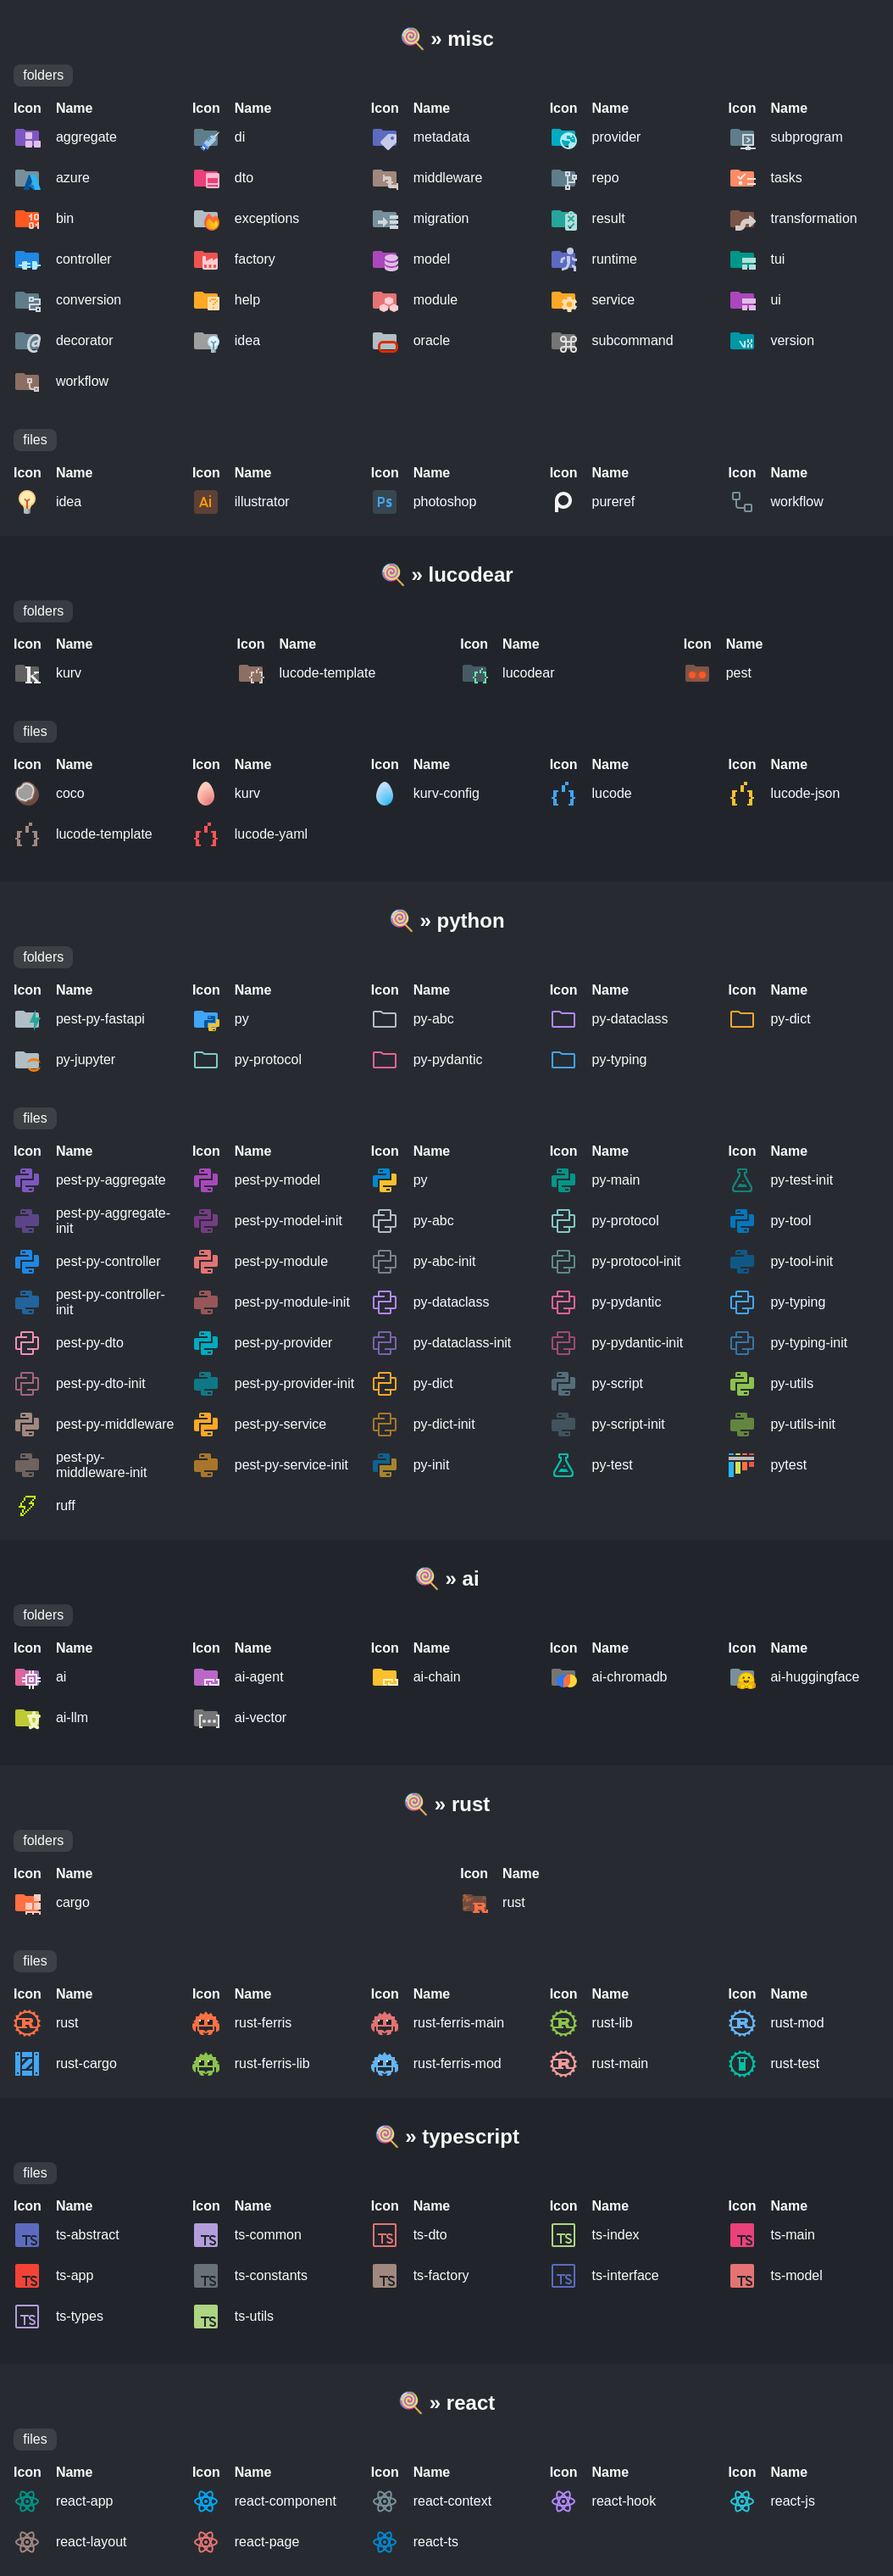
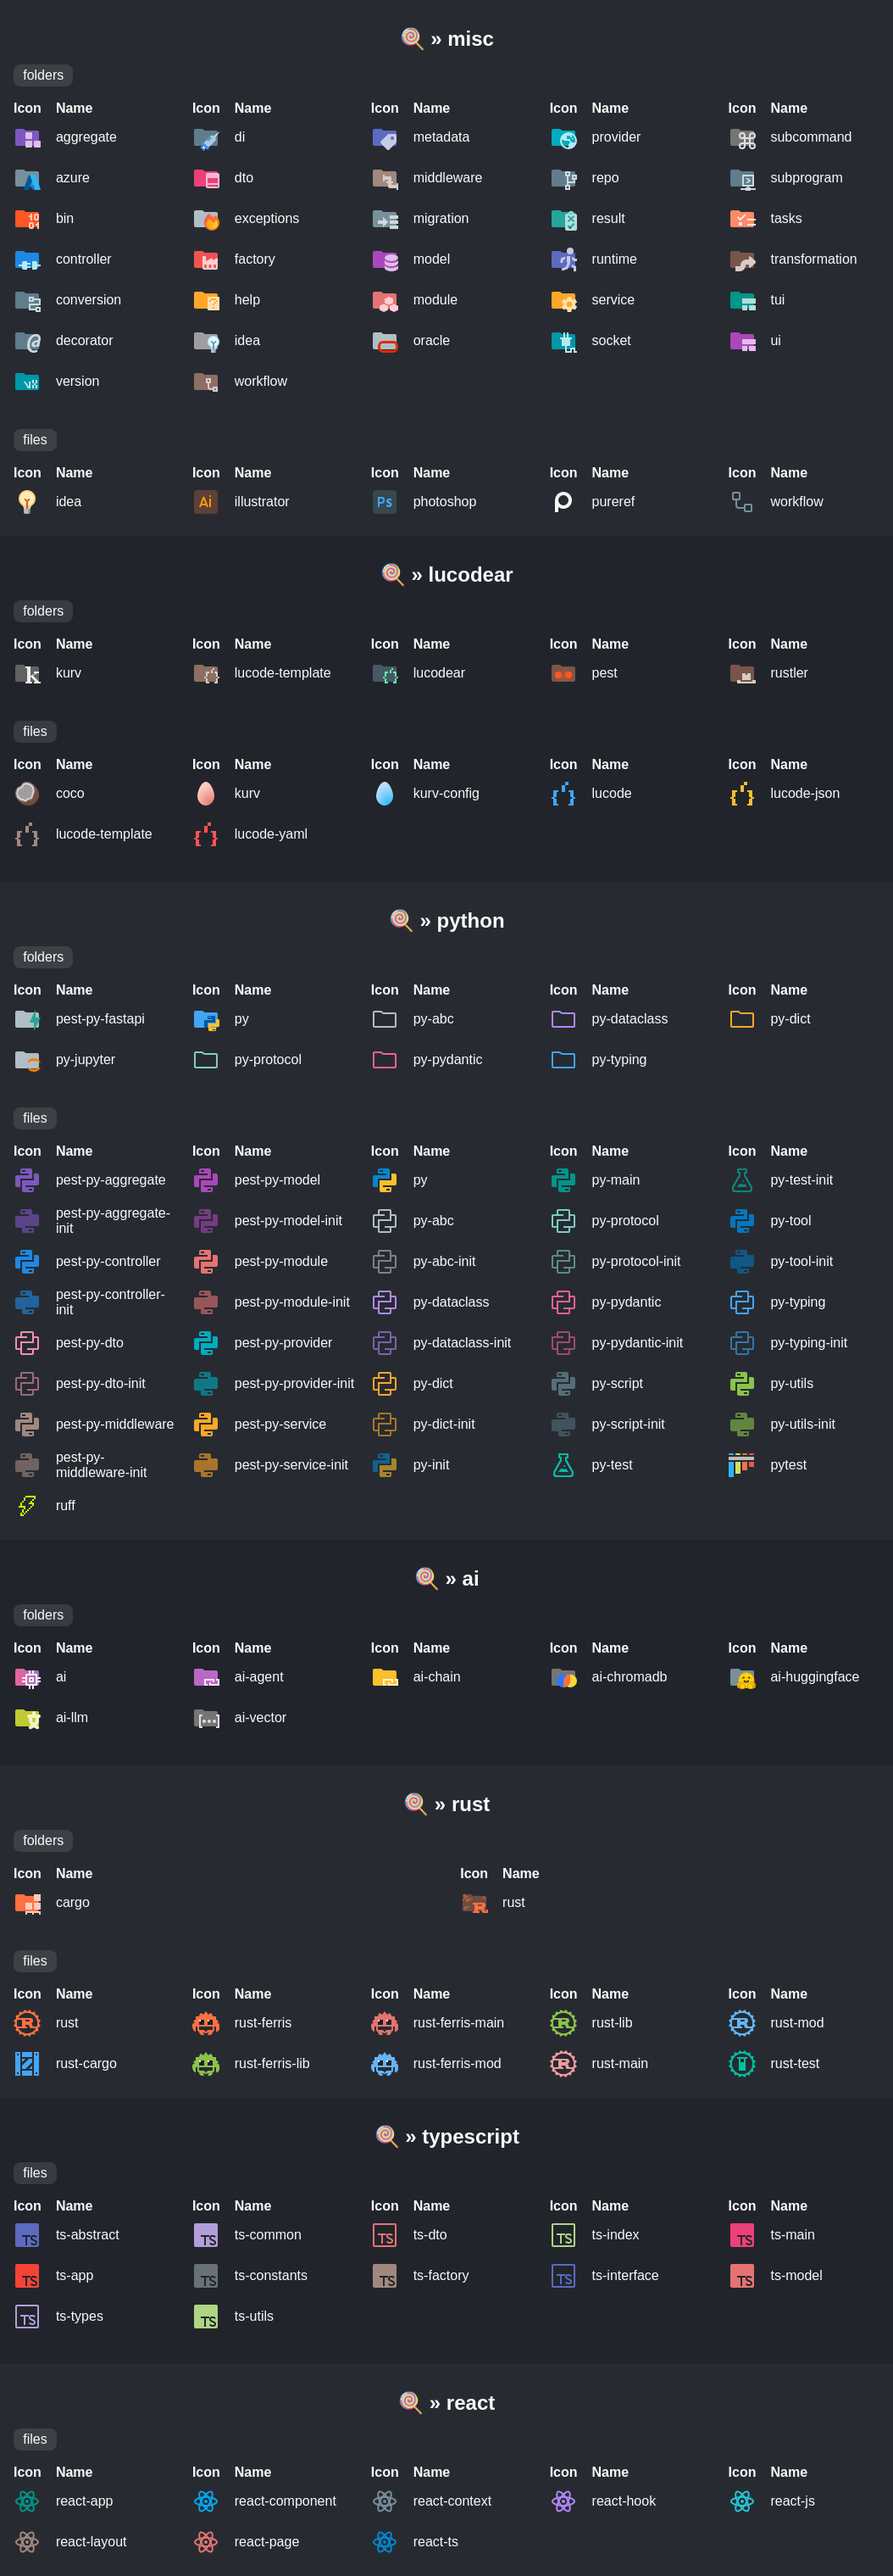
release: 🔖 v0.35.0

diff --git a/CHANGELOG.md b/CHANGELOG.md
@@ -3,10 +3,18 @@
  All notable changes to this project will be documented in this file. Dates are displayed in UTC.
 
  
+#### [v0.35.0](https://github.com/PKief/vscode-material-icon-theme/compare/v0.34.0...v0.35.0) 
+
+> March 27, 2024 
+
+- feat: ✨ folders gateway & rustler [`eabecc00`](https://github.com/PKief/vscode-material-icon-theme/commit/eabecc00)
+- feat: add lighthouserc .cjs extension support [`#2256`](https://github.com/PKief/vscode-material-icon-theme/pull/2256)
+ 
 #### [v0.34.0](https://github.com/PKief/vscode-material-icon-theme/compare/v0.33.1...v0.34.0) 
 
 > March 24, 2024 
 
+- release: 🔖 v0.34.0 [`d7bb104a`](https://github.com/PKief/vscode-material-icon-theme/commit/d7bb104a)
 - feat(misc): ✨ add migration folder [`9bc5dae7`](https://github.com/PKief/vscode-material-icon-theme/commit/9bc5dae7)
  
 #### [v0.33.1](https://github.com/PKief/vscode-material-icon-theme/compare/v0.33.0...v0.33.1) 
